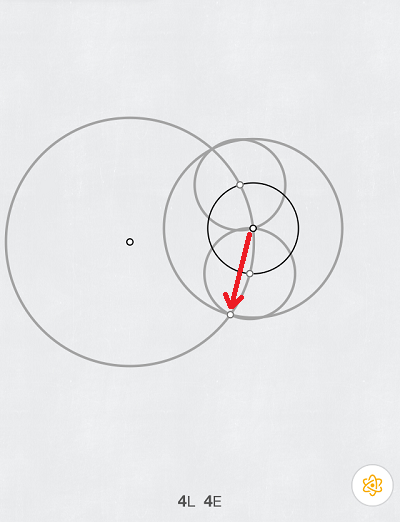
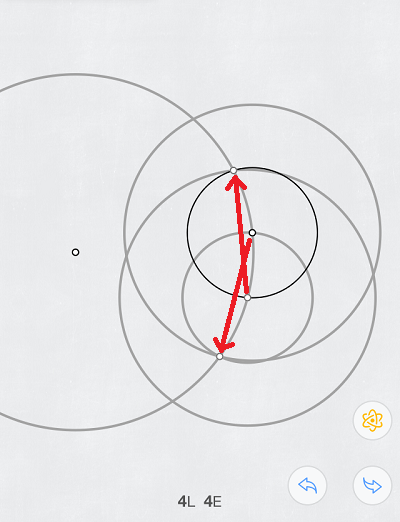
Update 14.8 7E solution.

diff --git a/v1/Euclidea3.md b/v1/Euclidea3.md
@@ -573,8 +573,8 @@
 - 14.7 过线外一点的垂线\*\* *10L 10E*  
 解：[10L10E，配极原则，两极线交点的优化。](solving/d14.7.png)  
 
-- 14.8 直线和圆的交点\* *9L 9E*  
-解：[9L9E，第一步：按图画三个圆。](solving/d14.8.1.png)[第二步：按图添加一个圆。](solving/d14.8.2.png)[第三步：按图添加对称的两个圆。](solving/d14.8.3.png)[第四步，按图添加一个圆。](solving/d14.8.4.png)[第五步，按图添加一个圆。](solving/d14.8.5.png)[最后按图添加一个圆后，找到交点即可。](solving/d14.8.6.png)  
+- 14.8 直线和圆的交点\* *7L 7E*  
+解：[7L7E，方法由计算机搜索而得，可以看作是构造直角三角形的斜边长。中途利用了2.8的思想。第一步：按图画两个圆。](solving/d14.8.1.png)[第二步：添加对称的两个圆。](solving/d14.8.2.png)[第三步：按图添加一个圆。](solving/d14.8.3.png)[第四步，按图添加一个圆。](solving/d14.8.4.png)[最后按图添加一个圆后，找到交点即可。](solving/d14.8.5.png)  
 
 - 14.9 圆心在一直线上的圆 *7L 9E 2V* ⭐  
 解：[7L，利用9E相同思想，并且用定半径圆工具优化。](solving/d14.9.1.png)  

diff --git a/README.md b/README.md
@@ -14,6 +14,7 @@
 - [v1版本链接(全最优解更新完成)](https://mathsfans.github.io/Euclidea/v1/)  
 
 重要解法更新：
+- (2018-01-11) 14.8 7E新纪录解法。 
 - (2017-11-30) 13.2 7E新纪录解法。 
 - (2017-10-04) 按照iOS 3.37版重新排列题目顺序。 
 - (2017-07-10) 2.8 5E新纪录解法。 
@@ -40,6 +41,7 @@ The solution pages:
 - [v1 (all optimal solutions, although descriptions are in Chinese)](https://mathsfans.github.io/Euclidea/v1/)  
 
 Version history：
+- (2018-01-11) New record update: 14.8 7E. 
 - (2017-11-30) New record update: 13.2 7E. 
 - (2017-10-04) Reorder v1 all problems according to iOS v3.37. 
 - (2017-07-10) New record update: 2.8 5E. 
